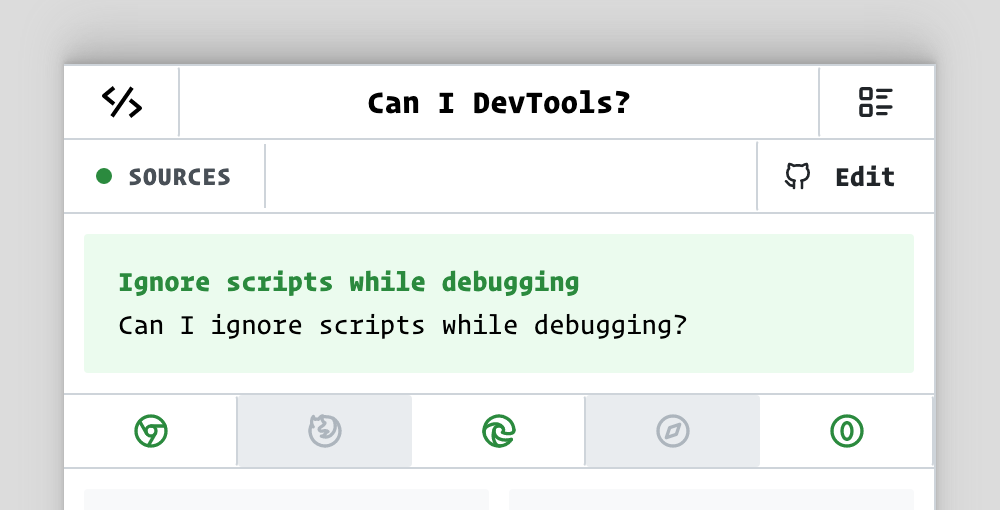
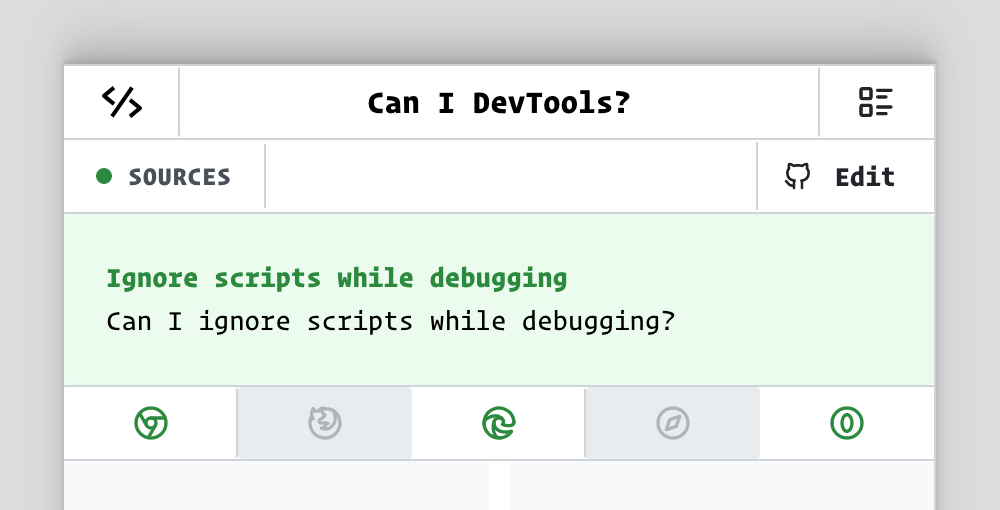
updated styles

Changed region(s): [[0.062, 0.7353, 0.93, 0.9412], [0.093, 0.5, 0.682, 0.6765]]

diff --git a/app/routes/$feature.jsx b/app/routes/$feature.jsx
@@ -108,15 +108,7 @@ export default function Feature() {
   return (
     <div className="grid">
       <Box>
-        <Box
-          sx={(theme) => ({
-
-            borderRight: `1px solid ${theme.colorScheme === 'dark'
-                ? theme.colors.dark[6]
-                : theme.colors.gray[4]
-              }`,
-          })}
-        >
+        <Box sx={(theme) => ({ borderRight: borderColor(theme) })}>
           <Group position="apart">
             <Badge
               radius={0}
@@ -142,27 +134,10 @@ export default function Feature() {
           </Group>
         </Box>
         <Divider />
-        <Box
-          sx={(theme) => ({
-            borderRight: `1px solid ${theme.colorScheme === 'dark'
-                ? theme.colors.dark[6]
-                : theme.colors.gray[4]
-              }`,
-          })}
-        >
-          <Box p="xs">
-            <Alert
-              styles={theme => ({
-                title: {
-                  marginBottom: 0
-                }
-              })}
-              title={feature.Name}
-              color={colors[feature.Category]}
-            >
-              {feature.Description}
-            </Alert>
-          </Box>
+        <Box sx={(theme) => ({ borderRight: borderColor(theme) })}>
+          <Alert p="lg" title={feature.Name} color={colors[feature.Category]} styles={_ => ({ title: { marginBottom: 0 }})}>
+            {feature.Description}
+          </Alert>
           <Divider />
           <SimpleGrid cols={5} spacing={0}>
             <Button
@@ -221,48 +196,27 @@ export default function Feature() {
               disabled={!feature.Opera}
               component={Link}
               to={`/${feature.Slug}/opera`}
-              sx={theme => ({ borderRight: borderColor(theme) })}
             >
               <IconBrandOpera size={20} />
             </Button>
           </SimpleGrid>
           <Divider />
-          <SimpleGrid cols={2} spacing="xs" p="xs">
-            <Alert
-              styles={theme => ({
-                title: {
-                  marginBottom: 0
-                }
-              })}
-              title="Last Modified"
-              radius="xs"
-              p="xs"
-            >
-              {formatDistanceToNow(new Date(feature.LastModifiedTime), { addSuffix: true })}
+          <SimpleGrid cols={2} spacing="xs">
+            <Alert p="lg" title="Last Modified" styles={_ => ({ title: { marginBottom: 0 }})}>
+                {formatDistanceToNow(new Date(feature.LastModifiedTime), { addSuffix: true })}
             </Alert>
-            <Alert
-              styles={theme => ({
-                title: {
-                  marginBottom: 0
-                }
-              })}
-              title="Author"
-              radius="xs"
-              p="xs"
-            >
+
+            <Alert p="lg" title="Author" styles={_ => ({ title: { marginBottom: 0 }})}>
               <Anchor variant="link" href={`https://twitter.com/${feature.Author}`}>
                 {feature.Author}
               </Anchor>
             </Alert>
-            <Alert title="Test Live" radius="xs" p="xs"
-              styles={theme => ({ title: { marginBottom: 0 } })}>
+
+            <Alert p="lg" title="Test Live" styles={_ => ({ title: { marginBottom: 0 }})}>
               via <Anchor variant="link" href="https://live.browserstack.com/dashboard">BrowserStack</Anchor>
             </Alert>
-            <Alert styles={theme => ({ title: { marginBottom: 0 } })}
-              title="Newsletter"
-              radius="xs"
-              p="xs"
-            >
+
+            <Alert p="lg" title="Newsletter" styles={_ => ({ title: { marginBottom: 0 }})}>
               <Anchor variant="link" color={"indigo.9"} href={`https://canidevtools.substack.com/p/${feature.Newsletter}`}>
                 {feature.Newsletter}
               </Anchor>

diff --git a/README.md b/README.md
@@ -837,10 +837,18 @@
 ## 59. Ignore scripts while debugging 
  Can I ignore scripts while debugging? 
 - [Chrome](https://canidev.tools/ignore-scripts-debug/chrome) 
- 1. Open **Settings** (`F1`) > Ignore List. Check "Enable Ignore Listing" > Under **Custom exclusion rules**: click "Add pattern..." button to add a pattern for the script(s) that needs to be excluded while debugging.
+ 1. In **Sources** > Open **Page** (left sidebar) > Right click on the script to be ignored and select "Add script to ignore list".
+2. To ignore multiple scripts using a pattern, open **Settings** (`F1`) > Ignore List > Enable Ignore Listing. Click the "Add Pattern" button and enter the regex pattern matching the scripts to be ignored.
+3. All the ignored scripts will be available under **Custom exclusion rules** section in **Ignore List**.
 - [Edge](https://canidev.tools/ignore-scripts-debug/edge) 
- undefined- [Opera](https://canidev.tools/ignore-scripts-debug/opera) 
- undefined## 60. Import & Export HAR file 
+ 1. In **Sources** > Open **Page** (left sidebar) > Right click on the script to be ignored and select "Add script to ignore list".
+2. To ignore multiple scripts using a pattern, open **Settings** (`F1`) > Ignore List > Enable Ignore Listing. Click the "Add Pattern" button and enter the regex pattern matching the scripts to be ignored.
+3. All the ignored scripts will be available under **Custom** **exclusion** **rules** section in **Ignore** **List**.
+- [Opera](https://canidev.tools/ignore-scripts-debug/opera) 
+ 1. In **Sources** > Open **Page** (left sidebar) > Right click on the script to be ignored and select "Add script to ignore list".
+2. To ignore multiple scripts using a pattern, open **Settings** (`F1`) > Ignore List > Enable Ignore Listing. Click the "Add Pattern" button and enter the regex pattern matching the scripts to be ignored.
+3. All the ignored scripts will be available under **Custom** **exclusion** **rules** section in **Ignore List**.
+## 60. Import & Export HAR file 
  Can I import and export network activity to a HAR file? 
 - [Chrome](https://canidev.tools/import-export-har/chrome) 
  1. In the **Network** panel, use the **Up** (↑) and **Down** (↓) arrow buttons in the toolbar to **Import** and **Export** all the network activity into a HAR file.
